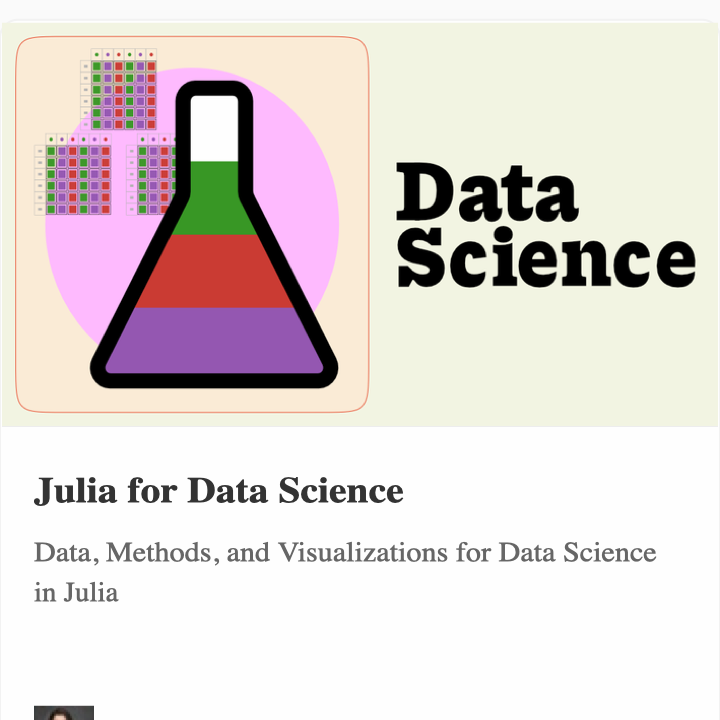
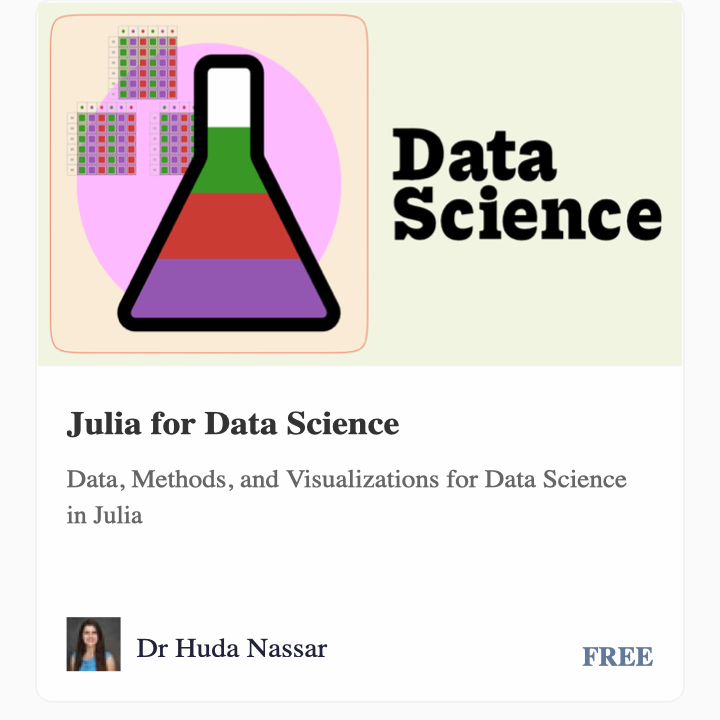
Fix course thumbnails and simplify layout
- Re-extract thumbnails with correct viewBox and width/height to fully
  show instructor photos, names, and FREE labels
- Remove redundant text descriptions since thumbnails already contain
  course title, description, and instructor info
- Keep thumbnails as clickable links to YouTube playlists

diff --git a/learning/index.md b/learning/index.md
@@ -82,36 +82,24 @@
 
      <div class="row">
        <div class="col-lg-4 col-md-6 feature">
-         <a href="https://www.youtube.com/playlist?list=PLP8iPy9hna6Qpx0MgGyElJ5qFlaIXYf1R"><img src="assets/courses/nervous-beginners.png" alt="Julia for Nervous Beginners course thumbnail" class="img-fluid"></a>
-         <h3><a href="https://www.youtube.com/playlist?list=PLP8iPy9hna6Qpx0MgGyElJ5qFlaIXYf1R">Julia for Nervous Beginners</a></h3>
-         <p>A course for people who are hesitant but curious about learning to write code in Julia. Taught by Dr Henri Laurie.</p>
+         <a href="https://www.youtube.com/playlist?list=PLP8iPy9hna6Qpx0MgGyElJ5qFlaIXYf1R"><img src="assets/courses/nervous-beginners.png" alt="Julia for Nervous Beginners" class="img-fluid"></a>
        </div>
        <div class="col-lg-4 col-md-6 feature">
-         <a href="https://www.youtube.com/playlist?list=PLP8iPy9hna6QuDTt11Xxonnfal91JhqjO"><img src="assets/courses/data-science.png" alt="Julia for Data Science course thumbnail" class="img-fluid"></a>
-         <h3><a href="https://www.youtube.com/playlist?list=PLP8iPy9hna6QuDTt11Xxonnfal91JhqjO">Julia for Data Science</a></h3>
-         <p>From zero knowledge of Julia's Data Science capabilities to training models and performing analysis. Taught by Dr Huda Nassar.</p>
+         <a href="https://www.youtube.com/playlist?list=PLP8iPy9hna6QuDTt11Xxonnfal91JhqjO"><img src="assets/courses/data-science.png" alt="Julia for Data Science" class="img-fluid"></a>
        </div>
        <div class="col-lg-4 col-md-6 feature">
-         <a href="https://www.youtube.com/playlist?list=PLP8iPy9hna6SGnG3FcHlYhdWWrZE7nNEx"><img src="assets/courses/dataframes.png" alt="Intro to DataFrames.jl course thumbnail" class="img-fluid"></a>
-         <h3><a href="https://www.youtube.com/playlist?list=PLP8iPy9hna6SGnG3FcHlYhdWWrZE7nNEx">Intro to DataFrames.jl</a></h3>
-         <p>In-memory tabular data in Julia using DataFrames.jl. Taught by Bogumi&#322; Kami&#324;ski.</p>
+         <a href="https://www.youtube.com/playlist?list=PLP8iPy9hna6SGnG3FcHlYhdWWrZE7nNEx"><img src="assets/courses/dataframes.png" alt="Intro to DataFrames.jl" class="img-fluid"></a>
        </div>
      </div>
      <div class="row">
        <div class="col-lg-4 col-md-6 feature">
-         <a href="https://www.youtube.com/playlist?list=PLP8iPy9hna6Q58n470P1oo7WX1fNZxneG"><img src="assets/courses/covid-modeling.png" alt="Computational Modeling COVID-19 course thumbnail" class="img-fluid"></a>
-         <h3><a href="https://www.youtube.com/playlist?list=PLP8iPy9hna6Q58n470P1oo7WX1fNZxneG">Computational Modeling (COVID-19)</a></h3>
-         <p>Computational modeling in Julia with applications to the COVID-19 pandemic. Taught by Alan Edelman &amp; David Sanders.</p>
+         <a href="https://www.youtube.com/playlist?list=PLP8iPy9hna6Q58n470P1oo7WX1fNZxneG"><img src="assets/courses/covid-modeling.png" alt="Computational Modeling in Julia (COVID-19)" class="img-fluid"></a>
        </div>
        <div class="col-lg-4 col-md-6 feature">
-         <a href="https://www.youtube.com/playlist?list=PLP8iPy9hna6QPqk4N8eBk0oXzLrLbOtTA"><img src="assets/courses/pomdps.png" alt="Decision Making Under Uncertainty course thumbnail" class="img-fluid"></a>
-         <h3><a href="https://www.youtube.com/playlist?list=PLP8iPy9hna6QPqk4N8eBk0oXzLrLbOtTA">Decision Making Under Uncertainty</a></h3>
-         <p>Build and solve decision making problems using the POMDPs.jl ecosystem. Taught by Robert Moss.</p>
+         <a href="https://www.youtube.com/playlist?list=PLP8iPy9hna6QPqk4N8eBk0oXzLrLbOtTA"><img src="assets/courses/pomdps.png" alt="Decision Making Under Uncertainty with POMDPs.jl" class="img-fluid"></a>
        </div>
        <div class="col-lg-4 col-md-6 feature">
-         <a href="https://www.youtube.com/playlist?list=PLP8iPy9hna6T56GkMHEdSrjCCheNuEwI0"><img src="assets/courses/computational-thinking.png" alt="Computational Thinking MIT course thumbnail" class="img-fluid"></a>
-         <h3><a href="https://www.youtube.com/playlist?list=PLP8iPy9hna6T56GkMHEdSrjCCheNuEwI0">Computational Thinking (MIT)</a></h3>
-         <p>MIT's open course 18.S191 on computational thinking using Julia, with interactive Pluto notebooks.</p>
+         <a href="https://www.youtube.com/playlist?list=PLP8iPy9hna6T56GkMHEdSrjCCheNuEwI0"><img src="assets/courses/computational-thinking.png" alt="Computational Thinking (MIT 18.S191)" class="img-fluid"></a>
        </div>
      </div>
    </div>
